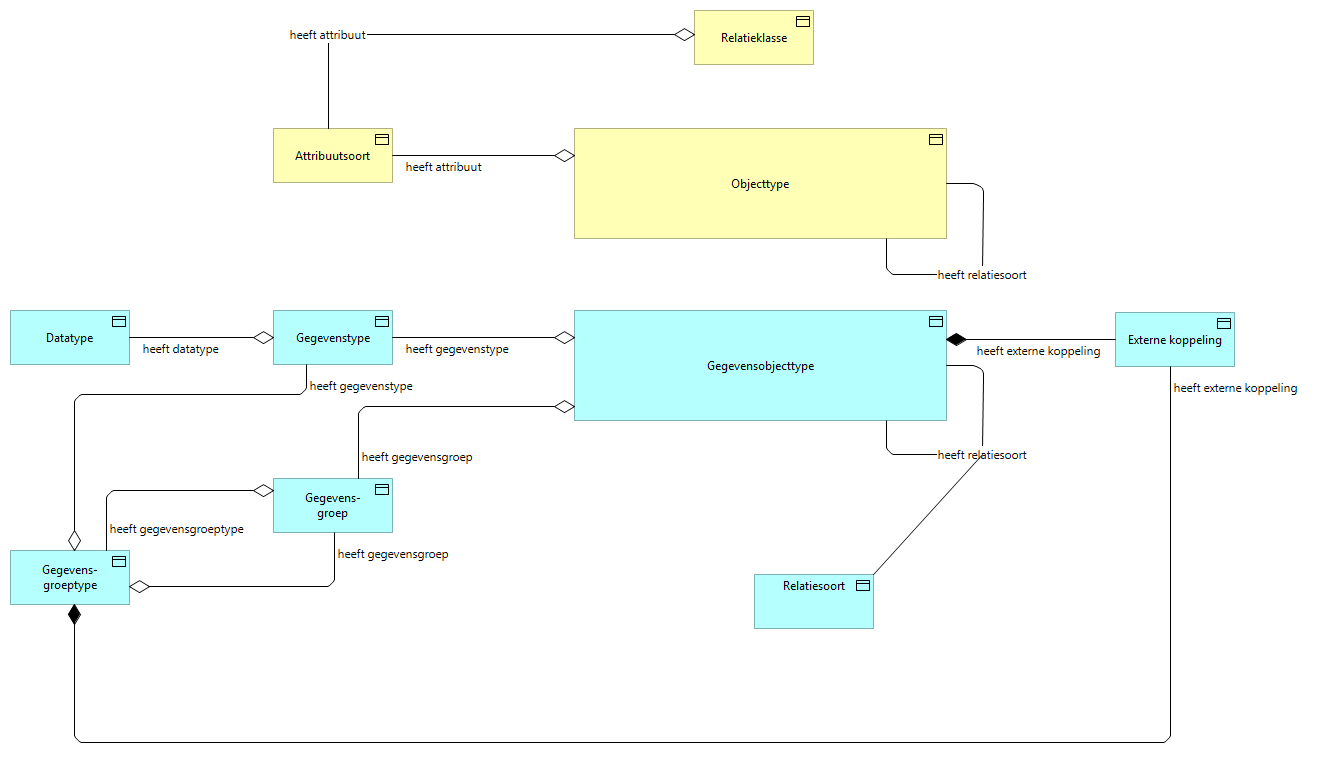
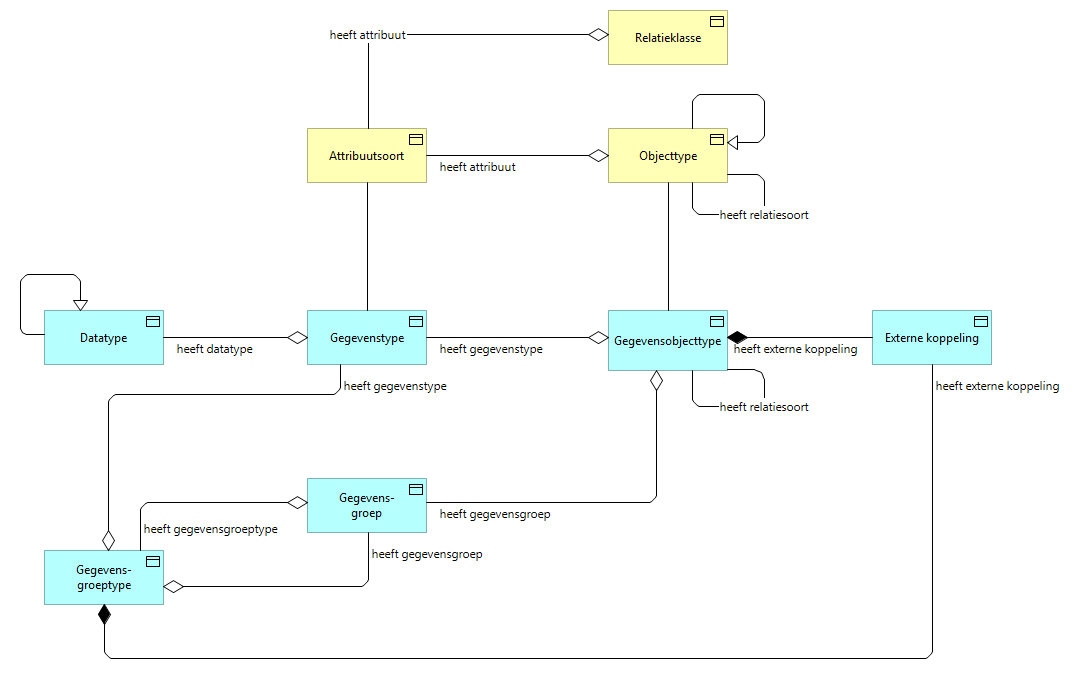
datatypen uitgewerkt

diff --git a/metamodel in archimate.md b/metamodel in archimate.md
@@ -19,6 +19,8 @@ We kiezen er in deze standaard voor om de volgende MIM metaclasses <u>niet</u> t
 ### Kern
 ![Kern](/mim-archimate/media/kern.png)
 
+Er is bewust voor gekozen om in het diagram de relatie-gerelateerde meta-classes in MIM niet te tonen als aparte entiteiten. Zij worden verderop in dit document verder uitgewerkt.
+
 De volgende tabel beschrijft hoe de metaclasses in de kern van MIM zich verhouden tot de te gebruiken ArchiMate elementen en welke specialisaties moeten worden aangebracht in de ArchiMate elementen om ze de betekenis uit MIM te geven. 
 
 | **MIM metaclass**   | **ArchiMate element**    | **Specialisatie**  |
@@ -52,23 +54,25 @@ Voor de bindingen tussen de modelelementen wordt gebruik gemaakt van de in MIM v
 
 ### Datatypen
 
+![Datatype](/mim-archimate/media/datatype.png)
+
 | **MIM metaclass**       | **ArchiMate element** | **Specialisatie** |
 | ----------------------- | --------------------- | ----------------- |
 | Datatype                | Data Object | Datatype | 
 | Primitief datatype      | Data Object | Primitief datatype |
 | Gestructureerd datatype | Data Object | Gestructureerd datatype |
-| Data element            | Data Object | Data element |
+| Data-element            | Data Object | Data-element |
 | Enumeratie              | Data Object | Enumeratie |
 | Enumeratiewaarde        | Data Object | Enumeratiewaarde |
 | Referentielijst         | Data Object | Enumeratiewaarde |
-| Referentie element      | Data Object | Referentie element |
+| Referentie-element      | Data Object | Referentie-element |
 | Codelijst               | Data Object | Codelijst |
 
 
 | **MIM binding**          | **ArchiMate element**   | **Specialisatie**        |
 | ------------------------ | ----------------------- | ------------------------ |
 | heeft datatype           | Aggregation             | heeft dataype            |
-| heeft data-element       | Aggregation             | heeft data-element       |
+| heeft data-element       | Composition             | heeft data-element       |
 
 ### Overig
 
@@ -85,17 +89,16 @@ Voor de bindingen tussen de modelelementen wordt gebruik gemaakt van de in MIM v
 
 #### Keuze
 
-Het modelelement keuze bepaalt dat er meerdere opties mogelijk zijn, waarvan er één gekozen moet worden. In ArchiMate wordt hiervoor gebruik gemaakt van het Junction element, dat bedoeld is om relaties aan elkaar te verbinden. In het bijzonder gaat het omn de "Or" variant, die stelt dat minimaal één van de relaties moet worden gekozen. De "minimaal één" betekenis is ruimer dan wat nodig is voor de Keuze in MIM, maast past dus wel.  
-
 | **MIM metaclass**       | **ArchiMate element** | **Specialisatie** |
 | ----------------------- | --------------------- | ----------------- |
-| Keuze                   | Junction (Or)         | \-                | 
+| Keuze                   | Data Object           | Keuze             | 
 
+Het modelelement keuze bepaalt dat er meerdere opties mogelijk zijn, waarvan er één gekozen moet worden. 
 Er zijn vijf situaties mogelijk waarin een keuze toegepast wordt.
 
 - Use case 1: een keuze tussen datatypen
-- Use case 2: een keuze tussen twee of meer attribuutsoorten
-- Use case 3: een keuze tussen meerdere manieren om één betekenisvol attribuutsoort in te vullen
+- Use case 2: een keuze tussen twee of meer attribuutsoorten (@gegevenstypen?@)
+- Use case 3: een keuze tussen meerdere manieren om één betekenisvol attribuutsoort (@gegevenstype@?) in te vullen
 - Use case 4: een keuze tussen relatiedoelen, als nadere invulling van één betekenisvolle relatiesoort
 - Use case 5: een keuze tussen relatiesoorten/relatierollen (elk afzonderlijk betekenisvol)
 
@@ -111,6 +114,8 @@ Voor elke toepassing geldt een aparte subset van het metamodel.
 | heeft keuzeattribuut     | Aggregation             | heeft keuzeattribuut     |
 | heeft relatiedoelkeuze   | Aggregation             | heeft relatiedoelkeuze   |
 | heeft relatiesoortkeuze  | Aggregation             | heeft relatiesoortkeuze  |   
+
+#### Relatierol
 
 #### Waardelijsten
 
